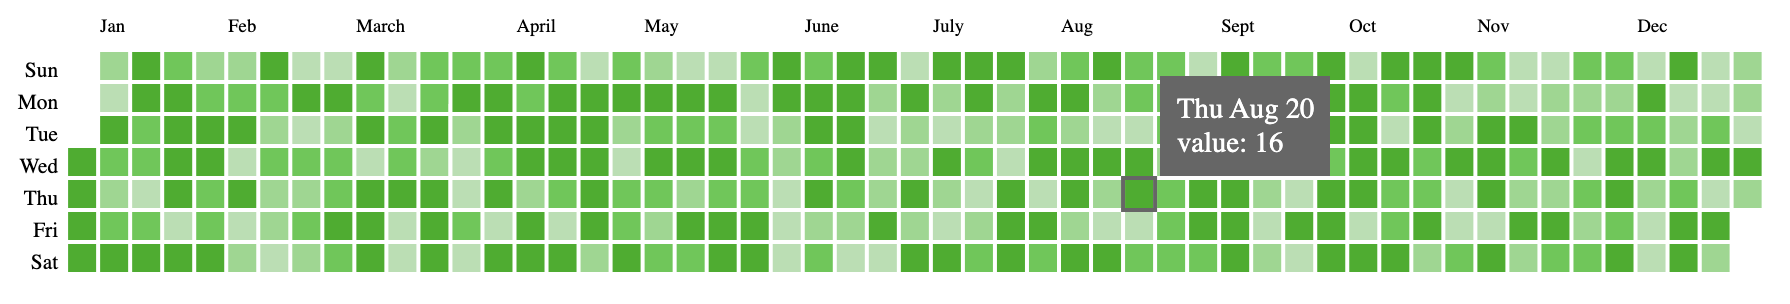
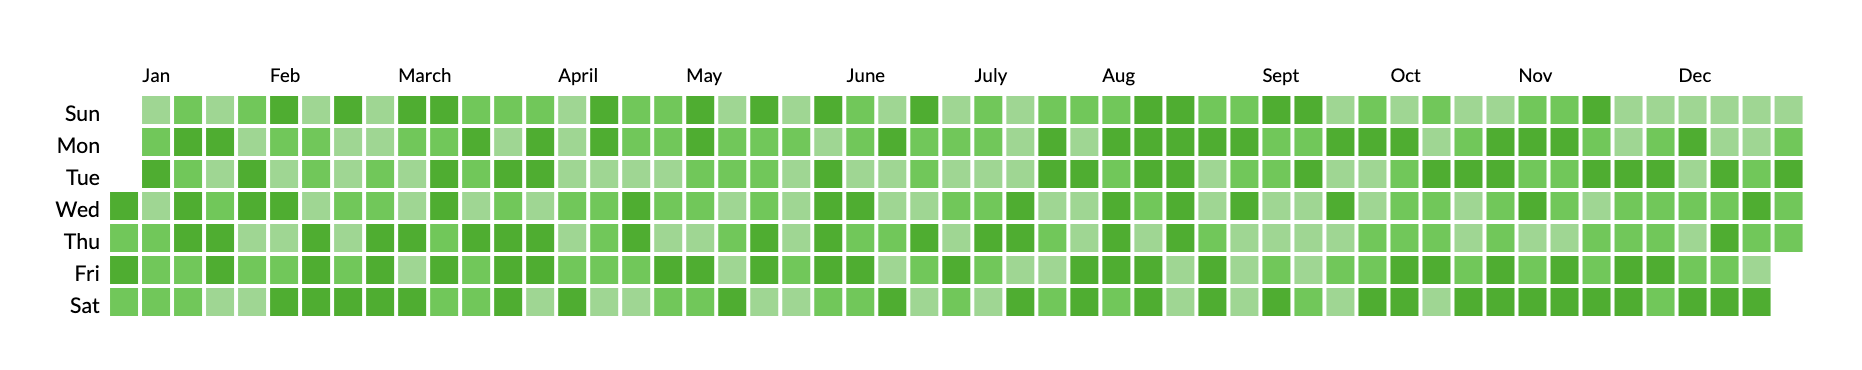
organizing; fix default tooltip issues; update sample data

diff --git a/src/components/Grid.js b/src/components/Grid.js
@@ -37,14 +37,12 @@ const getDateMapping = (data, dataKey = 'value') => {
   return mapping
 }
 
-const HeatmapGrid = (props) => {
+const Grid = (props) => {
   let {
     data, dataKey, startDate, endDate, cellSize, xStart, yStart, cellPad,
     colorForValue, showValue, onMouseOver, onMouseOut,
     minRGB, maxRGB, emptyRGB, barKey
   } = props
-
-  console.log('barkey', barKey)
 
   // ensure data is sorted
   data.sort((a, b) => a.date - b.date)
@@ -86,13 +84,14 @@ const HeatmapGrid = (props) => {
       weekTotal += val
 
       if (dayData.barKey) histogramTotal += dayData[dayData.barKey]
-      console.log('histogram', histogramTotal)
 
       let fill
       if (!val && colorForValue == 'gradient' && emptyRGB) {
         fill = `rgb(${emptyRGB.join(',')})`
       } else if (colorForValue == 'gradient') {
+        console.log('max', max, val, maxRGB, minRGB)
         fill = pickColor(val / max, minRGB, maxRGB)
+        console.log('fill', fill)
       } else if (colorForValue) {
         fill = colorForValue(val)
       } else {
@@ -131,7 +130,7 @@ const HeatmapGrid = (props) => {
         rects.push(
           <text
             x={x}
-            y={y - 10}
+            y={y - 7}
             fontSize={cellSize / 1.5}
             key={numOfDates + k}
           >
@@ -146,7 +145,6 @@ const HeatmapGrid = (props) => {
 
     // render histogram bar if needed
     if (barKey) {
-      console.log('here')
       rects.push(
         <rect
           x={x}
@@ -169,5 +167,5 @@ const HeatmapGrid = (props) => {
   )
 }
 
-export default HeatmapGrid
+export default Grid
 

diff --git a/src/components/Tooltip.js b/src/components/Tooltip.js
@@ -3,7 +3,9 @@ import styled from 'styled-components'
 
 
 
-const DefaultTooltip = (date, value) => {
+const DefaultTooltip = (props) => {
+  const {date, value} = props
+
   return (
     <>
       {new Date(date).toDateString().slice(0, 10)}<br/>
@@ -16,8 +18,6 @@ const Tooltip = (props) => {
   const {show, offset, tooltip} = props;
   let {x = 0, y = 0, data} = props.data;
 
-
-
   return (
     <TooltipRoot
       style={{
@@ -29,8 +29,8 @@ const Tooltip = (props) => {
       {show &&
         <>
           {tooltip ?
-            <>{tooltip(data)}</> :
-            <DefaultTooltip date={data.date} value={date.value} />
+            [tooltip(data)] :
+            <DefaultTooltip date={data.date} value={data.value} />
           }
         </>
       }

diff --git a/demos/covid-19.js b/demos/covid-19.js
@@ -4,7 +4,7 @@ import React from 'react'
 import { render } from 'react-dom'
 import styled from 'styled-components'
 
-import HeatmapCalendar from '../src/components/HeatmapCalendar'
+import HeatmapCalendar from '../src/HeatmapCalendar'
 import summaryData from '../sample-data/nssac-ncov-sd-summary.json'
 
 
@@ -57,7 +57,7 @@ const App = () => {
           <h3>{data[data.length - 1].totalConfirmed} Confirmed Cases</h3>
           <Cal
             dataKey="newConfirmed"
-            tooltip={(obj) => tooltip(obj, 'totalConfirmed',  'New cases', 'Total to date')}
+            //tooltip={(obj) => tooltip(obj, 'totalConfirmed',  'New cases', 'Total to date')}
             minRGB={[200, 230, 255]}
             maxRGB={[0, 90, 165]}
             {...props}

diff --git a/src/components/color.js b/src/components/color.js
@@ -12,7 +12,7 @@ export const color = {
 
 
 // based on less.js functions
-function pickHex(color1, color2, weight) {
+function pickHex(weight, color1, color2) {
     var w1 = weight;
     var w2 = 1 - w1;
     var rgb = [
@@ -29,5 +29,5 @@ const gradRedMin = [255, 220, 220]
 const gradRedMax = [165, 0, 0]
 
 export function pickColor(weight, minRGB = gradGreenMin, maxRGB = gradGreenMax) {
-  return `rgb(${pickHex(maxRGB, minRGB, weight).join(',')})`
+  return `rgb(${pickHex(weight, maxRGB, minRGB).join(',')})`
 }

diff --git a/src/HeatmapCalendar.js b/src/HeatmapCalendar.js
@@ -14,9 +14,9 @@
 import React, { useState } from 'react'
 import styled from 'styled-components'
 
-import Tooltip from './Tooltip'
-import Grid from './HeatmapGrid'
-import DayAxis from './DayAxis'
+import Tooltip from './components/Tooltip'
+import Grid from './components/Grid'
+import DayAxis from './components/DayAxis'
 
 
 // cell defaults

diff --git a/demos/index.js b/demos/index.js
@@ -6,7 +6,7 @@ import styled from 'styled-components'
 
 //import data from '../sample-data/nssac-ncov-sd-summary'
 
-import HeatmapCalendar from './components/HeatmapCalendar'
+import HeatmapCalendar from '../src/HeatmapCalendar'
 
 
 const getSampleData = (startDate, endDate) => {

diff --git a/demos/index.html b/demos/index.html
@@ -1,6 +1,12 @@
 <html>
   <head>
     <link href="https://fonts.googleapis.com/css?family=Arvo|Lato" rel="stylesheet">
+
+    <style>
+      body {
+        font-family: Lato;
+      }
+    </style>
   </head>
 
   <body>
